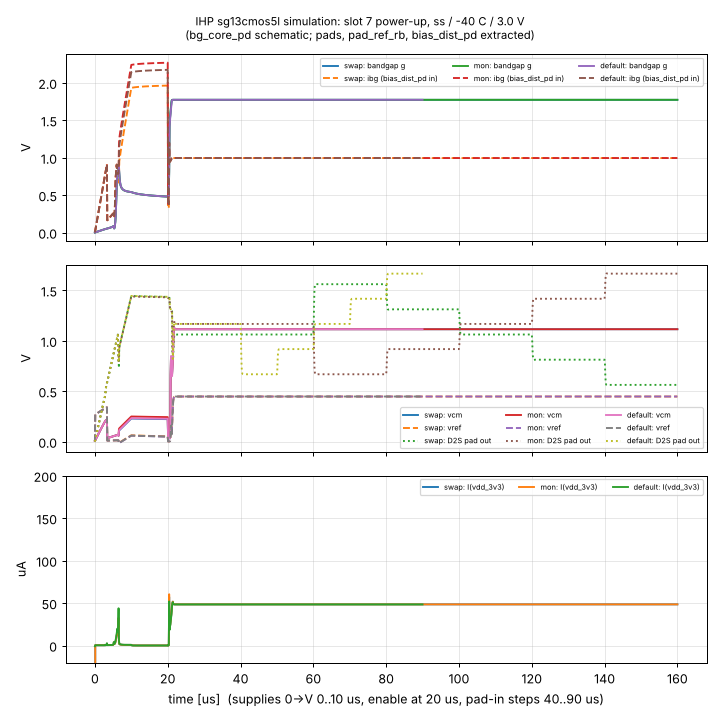
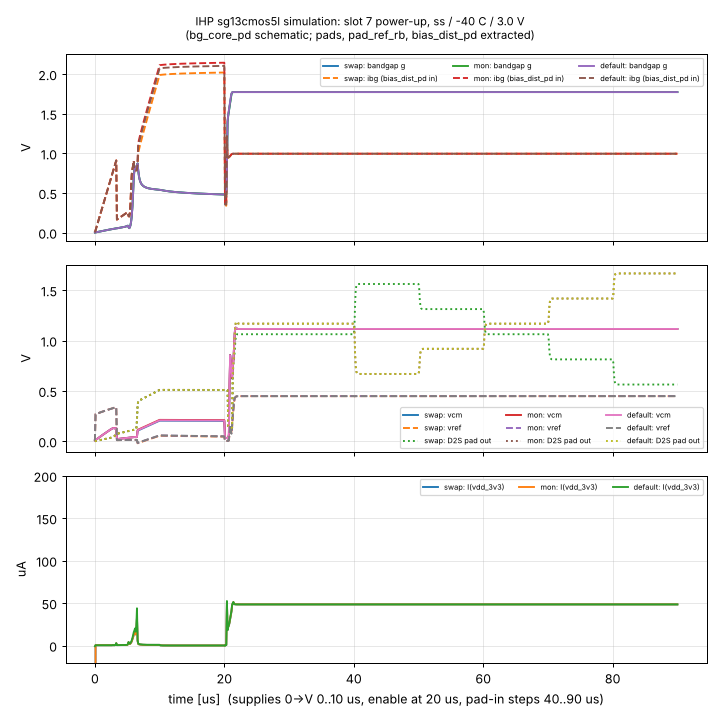
slot_modes_bg: partial results (work in progress)
Claude-Session: https://claude.ai/code/session_01XU3KH8MC4er7X9Fx14LZcs

diff --git a/verification/c2_gaps/slot_modes_bg/slot_modes.py b/verification/c2_gaps/slot_modes_bg/slot_modes.py
@@ -17,7 +17,8 @@ writes the register before enabling), enable 0 -> 1.2 V at 20 us (100 ns edge). 
 "at 39 us" = settled with pad in 0.5 V), then a staircase 0 / 0.25 / 0.5 / 0.75 / 1.0 V (10 us each, 40 ... 90 us,
 sampled at each step's end; settle = pad-out change between 85 and 90 us). Pad out: 1 Gohm as in run_modes.py plus
 10 pF (a probe / board load; variant "pu0": 1 Gohm only, as the designer). With 1 Gohm only, several runs abort with
-"timestep too small" at the D2S pad's antenna diode X$3 (sf -40 C swap / mon / feed, at 6.3 or 20.1 us). The bus sources (feed: bus0 / bus1, ext:
+"timestep too small" at the D2S pad's antenna diode X$3 (sf -40 C swap / mon / feed, at 6.3 or 20.1 us). Variant
+"pu2": as "pu" with a 1 us enable edge (20 ... 21 us) and a 5 ns maximum step, used to retry runs that abort. The bus sources (feed: bus0 / bus1, ext:
 bus2 / bus3) switch on 25 ... 26 us, after enable: with them on from t = 0 (driving the unpowered slot) the feed runs
 abort during the supply ramp (6.6 us, "timestep too small" at the D2S pad's antenna diode X$3); the ext run at
 ss -40 C with the sources on from t = 0 completed (4.92 mV) and is listed in README. Feed modes: bus0 / bus1 through 10 kohm to 1.45 /
@@ -78,7 +79,7 @@ BG = "v(xs.xbg.g) v(xs.xbg.vpc) v(xs.xbg.vpg) v(xs.xbg.ks) v(xs.ibg)"
 CLOAD = "10p"  # pad-out load capacitance in the 'pu' runs (see module doc); 'pu0' runs use none
 
 
-def deck_pu(name, c, t, v, incs, cload=CLOAD):
+def deck_pu(name, c, t, v, incs, cload=CLOAD, alt=False):
     bits, kind = MODES[name]
     d = [float(b) * 1.2 for b in bits.split()]
     feed, ext = kind == "feed", kind == "ext"
@@ -91,17 +92,17 @@ def deck_pu(name, c, t, v, incs, cload=CLOAD):
                    if ext else "Rb2 b2 0 1G\nRb3 b3 0 1G")
     meas = "\n".join(f"meas tran e{k} find err at={ts * 1e6:.1f}u\nmeas tran o{k} find v(padout) at={ts * 1e6:.1f}u\n"
                      f"meas tran x{k} find ex at={ts * 1e6:.1f}u" for k, (_, ts) in enumerate(STEPS))
-    tag = f"pu{'' if cload else '0'}_{name}_{c}_{t}_{v}"
+    tag = f"pu{'' if cload else '0'}{'2' if alt else ''}_{name}_{c}_{t}_{v}"
     return tag, f"* slot 7 mode {name} from power-up, {c} {t} C, {v} V\n" + header(c, t, v, incs, TOPT) + f"""
 Vslot vdd_3v3 0 pwl(0 0 10u {v})
 Vio iovdd 0 pwl(0 0 10u {v})
-Ven enable 0 pwl(0 0 20u 0 20.1u 1.2)
+Ven enable 0 pwl(0 0 20u 0 {"21u" if alt else "20.1u"} 1.2)
 Vv12 v12 0 1.2
 """ + "".join(f"Vd{i} d{i} 0 {d[i]}\n" for i in range(6)) + f"""Vin padin 0 {pin}
 {bus}
 {DUT}{f"Cload padout 0 {cload}" if cload else ""}
 .control
-tran 100n 90u 0 10n uic
+tran 100n 90u 0 {"5n" if alt else "10n"} uic
 let ex = {EXP[kind]}
 let err = v(padout) - ex
 let ibgv = v(xs.ibg)
@@ -163,8 +164,8 @@ def main():
         p = job.split(":")
         name, c, t, v = p[0], p[1], int(p[2]), float(p[3])
         var = p[4] if len(p) > 4 else "pu"
-        if var in ("pu", "pu0"):
-            tag, deck = deck_pu(name, c, t, v, incs, CLOAD if var == "pu" else "")
+        if var in ("pu", "pu0", "pu2"):
+            tag, deck = deck_pu(name, c, t, v, incs, "" if var == "pu0" else CLOAD, var == "pu2")
         else:
             tag, deck = deck_dcop(name, c, t, v, incs, var)
         f = WORK / f"{tag}.spice"
@@ -172,7 +173,7 @@ def main():
         r = subprocess.run(["ngspice", "-b", f.name], cwd=WORK, capture_output=True, text=True)
         f.with_suffix(".log").write_text(r.stdout + "\n#### stderr\n" + r.stderr)
         res = {"mode": name, "mos": c, "temp": t, "vdd": v, "variant": var,
-               "cload": (CLOAD if var == "pu" else "none") if var.startswith("pu") else ""}
+               "cload": ("none" if var == "pu0" else CLOAD) if var.startswith("pu") else ""}
         if var.startswith("pu"):
             a = re.search(r"^PU (.*)$", r.stdout, re.M)
             b = re.search(r"^STEPS (.*)$", r.stdout, re.M)

diff --git a/verification/c2_gaps/slot_modes_bg/tables.py b/verification/c2_gaps/slot_modes_bg/tables.py
@@ -57,12 +57,13 @@ def fnum(x):
 md = []
 # ---------------- slot modes from power-up
 pu = kv_rows(WORK / "slot_out" / "slot_modes_pu.csv") + kv_rows(WORK / "slot_out" / "slot_modes_pu0.csv")
+retry = {(r["mode"], r["mos"], r["temp"], r["vdd"]): r for r in kv_rows(WORK / "slot_out" / "slot_modes_pu2.csv")}
 seen = {}
 for r in pu:  # last run of a job wins; rows without 'cload' are from runs before the 10 pF load was added (1 Gohm only)
     r["cload"] = r.get("cload") or "none"
     r["variant"] = "pu" if r["cload"] != "none" else "pu0"
     seen[(r["cload"], r["mode"], r["mos"], r["temp"], r["vdd"])] = r
-pu = list(seen.values())
+pu = list(seen.values()) + list(retry.values())
 write(pu, OUT / "slot_modes_powerup.csv", "slot 7 modes from power-up (slot_modes.py 'pu' with 10 pF at pad out, 'pu0' "
       "1 Gohm only); bg_core_pd schematic, pads / pad_ref_rb / bias_dist_pd extracted. err_max_mV = max |pad out - "
       "expected| over the pad-in steps; t_* absolute (enable at 20 us)")
@@ -74,8 +75,8 @@ for cl, title in (("10p", "pad out 1 Gohm || 10 pF"), ("none", "pad out 1 Gohm o
     md.append(f"### Slot 7 modes from power-up, {title}: max |D2S pad out - expected| [mV]\n")
     md.append("IHP sg13cmos5l simulation; bg_core_pd schematic, both pads / pad_ref_rb / bias_dist_pd extracted, "
               "ls_up_fs / s7_ctrl source. Pad in 0 / 0.25 / 0.5 / 0.75 / 1.0 V (feed modes: 0.5 V). "
-              "`FAILED` = the transient aborted (see slot_modes_powerup.csv / README); empty = not run in the time "
-              "box.\n")
+              "`FAILED` = the transient aborted (see slot_modes_powerup.csv / README); `retry` = the same run with a 1 us "
+              "enable edge and a 5 ns maximum step (variant pu2); empty = not run in the time box.\n")
     md.append("| MOS | T [C] | V | " + " | ".join(MODES) + " | vcm / vref [V] | bandgap g [V] | t(g 90 %) after "
               "enable [us] |")
     md.append("|---|---|---|" + "---|" * len(MODES) + "---|---|---|")
@@ -83,7 +84,11 @@ for cl, title in (("10p", "pad out 1 Gohm || 10 pF"), ("none", "pad out 1 Gohm o
         cells, vv, gg = [], "", ""
         for m in MODES:
             r = seen.get((cl, m, *p))
-            cells.append("" if r is None else str(r.get("err_max_mV", "")))
+            cell = "" if r is None else str(r.get("err_max_mV", ""))
+            rr = retry.get((m, *p)) if cl != "none" else None
+            if rr is not None and cell == "FAILED":
+                cell = f"FAILED; retry {rr.get('err_max_mV', '')}"
+            cells.append(cell)
             if r is not None and fnum(r.get("vcm_V")) is not None and m != "ext" and not vv:
                 vv = f"{float(r['vcm_V']):.3f} / {float(r['vref_V']):.3f}"
                 gg = f"{float(r['v_g_V']):.3f}"

diff --git a/verification/c2_gaps/slot_modes_bg/plots.py b/verification/c2_gaps/slot_modes_bg/plots.py
@@ -46,7 +46,7 @@ def slot_plot():
         a.grid(alpha=0.3)
         a.legend(fontsize=6, ncol=3)
     ax[2].set_ylim(-20, 200)
-    fig.suptitle("IHP sg13cmos5l simulation: slot 7 power-up, ss / -40 C / 3.0 V\n(bg_core_pd schematic; pads, "
+    fig.suptitle("IHP sg13cmos5l simulation: slot 7 power-up, ss / -40 C / 3.0 V, pad out 1 Gohm || 10 pF\n(bg_core_pd schematic; pads, "
                  "pad_ref_rb, bias_dist_pd extracted)", fontsize=9)
     fig.tight_layout()
     fig.savefig(OUT / "slot_powerup_ss_m40.png", dpi=90)

diff --git a/verification/c2_gaps/slot_modes_bg/README.md b/verification/c2_gaps/slot_modes_bg/README.md
@@ -56,11 +56,17 @@ loads as in `run_modes.py`), but as a transient from all nodes at 0 V (`uic`, no
 vdd_3v3 and iovdd ramp 0 → V in 10 µs, v12 = 1.2 V and the mode bits from t = 0 (register written before enable),
 `enable` 0 → 1.2 V at 20 µs. Pad in 0.5 V to 40 µs, then 0 / 0.25 / 0.5 / 0.75 / 1.0 V for 10 µs each, sampled at each
 step's end; error = pad out − expected (`run_modes.py`'s expressions: direct vcm + (in − vref), swap vcm − (in − vref),
-feed vcm + (bus0 − bus1)/2, ext 1.30 + in − 0.50). Feed modes: pad in fixed 0.5 V, one sample at 90 µs. Solver aids
-(no circuit change): `method=gear`, `cshunt=1e-15` (as the designer's own transient in `run_tier1.py`), maximum time
-step 10 ns. Without the step limit the transient aborts with "timestep too small" in the D2S pad's antenna diode `X$3`
-(`dpantenna`, pad → iovdd): at 5.9 µs (trapezoidal, no cshunt), 21.3 µs (gear + cshunt, swap) and 6.6 µs (gear +
-cshunt + rshunt 1 TΩ, default mode); these aborts are what the logs show, the bandgap was running in each case.
+feed vcm + (bus0 − bus1)/2, ext 1.30 + in − 0.50). Feed modes: pad in fixed 0.5 V, one sample at 90 µs. The bus
+sources (feed bus0 / bus1 1.45 / 1.05 V, ext bus2 / bus3 1.30 / 0.50 V, each through 10 kΩ) switch on at 25 … 26 µs,
+after enable (instrument connected to a powered slot). Pad out: 1 GΩ (as `run_modes.py`) ∥ **10 pF** (probe / board
+load; variant `pu`); variant `pu0` is 1 GΩ only. Solver aids (no circuit change): `method=gear`, `cshunt=1e-15` (as
+the designer's own transient in `run_tier1.py`), maximum time step 10 ns; variant `pu2` (retry of aborted runs):
+enable edge 1 µs, maximum step 5 ns. Without these the transient aborts with "timestep too small" in the D2S pad's
+antenna diode `X$3` (`dpantenna`, pad → iovdd): at 5.9 µs (trapezoidal, no cshunt), 21.3 µs (gear + cshunt, swap),
+6.6 µs (gear + cshunt + rshunt 1 TΩ, default mode). With 1 GΩ only, or with the feed sources on from t = 0, more runs
+abort at the same diode during the supply ramp or at the enable edge. All aborts are listed as `FAILED` in the tables
+with the instance ngspice names. The ss −40 °C runs of section 1 of `results.md` were done in this order (pu0 first,
+then pu); `slot_modes_powerup.csv` has a `cload` column.
 
 **DC diagnosis (`dcop`, `dcns`).** The designer's DC deck, unchanged, with ngspice's stderr kept, and the same deck
 with `.nodeset` of the bandgap nodes (g, vpc, vpg, ks, ibg) at their running values (from the power-up transient).

diff --git a/verification/c2_gaps/slot_modes_bg/results_tables.md b/verification/c2_gaps/slot_modes_bg/results_tables.md
@@ -2,14 +2,23 @@
 SPDX-FileCopyrightText: 2026 Christoph Maier
 SPDX-License-Identifier: Apache-2.0
 -->
+### Slot 7 modes from power-up, pad out 1 Gohm || 10 pF: max |D2S pad out - expected| [mV]
+
+IHP sg13cmos5l simulation; bg_core_pd schematic, both pads / pad_ref_rb / bias_dist_pd extracted, ls_up_fs / s7_ctrl source. Pad in 0 / 0.25 / 0.5 / 0.75 / 1.0 V (feed modes: 0.5 V). `FAILED` = the transient aborted (see slot_modes_powerup.csv / README); `retry` = the same run with a 1 us enable edge and a 5 ns maximum step (variant pu2); empty = not run in the time box.
+
+| MOS | T [C] | V | default | swap | mon | feed | ext | all_high | swap+feed | no_key_swap | vcm / vref [V] | bandgap g [V] | t(g 90 %) after enable [us] |
+|---|---|---|---|---|---|---|---|---|---|---|---|---|---|
+| sf | -40 | 3.0 | 1.13 | 1.04 | FAILED | FAILED | 1.67 | 1.13 | FAILED |  | 1.138 / 0.444 | 1.746 | 0.79 ... 0.79 |
+| ss | -40 | 3.0 | 1.37 | 1.12 | 1.43 | 0.24 | 4.92 | 1.37 | 0.24 | 1.37 | 1.115 / 0.447 | 1.773 | 0.80 ... 0.83 |
+
 ### Slot 7 modes from power-up, pad out 1 Gohm only (as run_modes.py): max |D2S pad out - expected| [mV]
 
-IHP sg13cmos5l simulation; bg_core_pd schematic, both pads / pad_ref_rb / bias_dist_pd extracted, ls_up_fs / s7_ctrl source. Pad in 0 / 0.25 / 0.5 / 0.75 / 1.0 V (feed modes: 0.5 V). `FAILED` = the transient aborted (see slot_modes_powerup.csv / README); empty = not run in the time box.
+IHP sg13cmos5l simulation; bg_core_pd schematic, both pads / pad_ref_rb / bias_dist_pd extracted, ls_up_fs / s7_ctrl source. Pad in 0 / 0.25 / 0.5 / 0.75 / 1.0 V (feed modes: 0.5 V). `FAILED` = the transient aborted (see slot_modes_powerup.csv / README); `retry` = the same run with a 1 us enable edge and a 5 ns maximum step (variant pu2); empty = not run in the time box.
 
 | MOS | T [C] | V | default | swap | mon | feed | ext | all_high | swap+feed | no_key_swap | vcm / vref [V] | bandgap g [V] | t(g 90 %) after enable [us] |
 |---|---|---|---|---|---|---|---|---|---|---|---|---|---|
 | sf | -40 | 3.0 | 1.13 | FAILED | FAILED | FAILED |  |  |  |  | 1.138 / 0.444 | 1.746 | 0.79 ... 0.79 |
-| ss | -40 | 3.0 | 1.37 | 1.12 | 1.43 | 0.24 | 4.92 | 1.37 | FAILED | 1.37 | 1.115 / 0.447 | 1.773 | 0.80 ... 0.86 |
+| ss | -40 | 3.0 | 1.37 | 1.12 | 1.43 | 0.24 | 4.92 | 1.37 | 0.24 | 1.37 | 1.115 / 0.447 | 1.773 | 0.80 ... 0.86 |
 
 ### DC solver diagnosis at ss / -40 C / 3.0 V (designer's DC deck)
 
